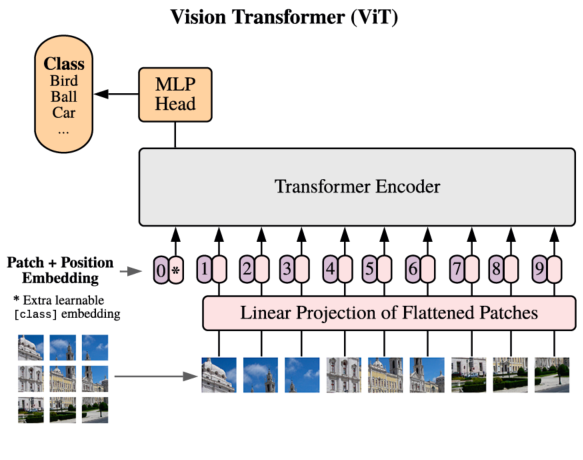
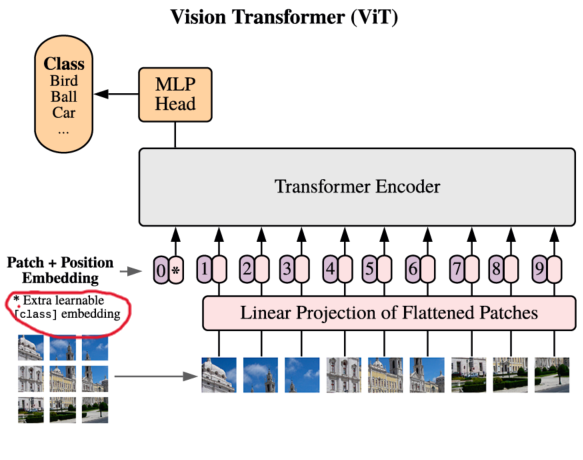
1

diff --git a/读论文中提到的概念大略/VIT/学习.md b/读论文中提到的概念大略/VIT/学习.md
@@ -21,8 +21,66 @@
 ## 具体方法解析
 ![alt text](image-1.png)
 1. 首先将输入图片分成一个个16×16的patch。
-2. 将一个个patch放到线形投射层
+2. 将一个个patch放到线形投射层（其实就是一个全连接层）
+3. 将2中所得，拼接额外cls token，并加入位置编码信息
+4. 进入TransFormer Encoder
 
-举例来说明：
-如果是输入大小为224×224的图片，那么分为16×16的patch可以分出来（224÷16）<sup>2</sup>=196个，每个patch 的维度就成了16×16×3=768。
-原来的
+流程图：
+![alt text](image-2.png)
+
+举例来说明：（这里省略了残差连接的内容，见图中）
+·如果是输入大小为224×224的图片，那么分为16×16的patch可以分出来（224÷16）<sup>2</sup>=196个，每个patch 的维度就成了16×16×3=768。
+·原来的输入就从224×224×3变成了一个196×768的维度。接下来进入线性投射层（论文中给出的维度是768（输入决定）×768（隐藏层神经元个数））
+·经过线性投射层得到的结果维度为196×768，也就是196个token，一个token的长度是768
+·不过呢，还需要一个可学习的cls token（图中红色圈圈中的内容，应该是用于分类的），其形状为1×768
+·将cls token和之前得到的进行拼接，得到形状为197×768的要进入TransFormer的输入。
+·在进入TransFormer之前我们还需要给这个输入加上一个位置编码信息
+&emsp;对于位置编码嵌入的实现比较特殊且粗暴，在这里简单说一下
+&emsp;创建一个等于行数等于patch数的表格，如本例中的196（这里老师没有细讲，不过感觉从操作层面上讲，可能197行会方便一点）。每行长度为768，也就是一个token的长度。这样得到这个196/197×768的矩阵
+&emsp;将其直接加到我们之前得到的要进入TransFormer的输入（所得的最终输入形状仍然为197×768）上即可完成位置编码。
+&emsp;注意，负责位置编码的这个矩阵是可以进行学习的~~~
+·之后进入TransFormer block中，首先是做个LayerNorm
+·接下来是做一个多头自注意力机制，得到QKV
+&emsp;如果是单头则QKV皆为197×768，多头默认是12个头，则QKV皆为197×64（共12组）
+&emsp;经过多头自注意力的结果经过拼接所得的结果仍然为197×768
+·再过一层layernorm，再过一个MLP
+&emsp;MLP中间的隐藏层的神经元是输入的4倍，也就是768×4=3072个，不过最后还是输出还是197×768
+·经过L个TransFormer block（也就是一个Transformer Encoder后），得到的结果过一个分类头（MLP），得到最终的输出。（应该也可以接其他的头，不过现在还没整明白）
+
+### 注意
+**对于其中cls token是最终作为整个模型提取的图片的特征输出的。**
+可以这样理解，cls token经过很多层的transformer模块后，融合了其他token的信息。
+比如说对于接一个MLP图像分类层，只要这个cls token的信息过去接就可以了。
+*好像在NLP中也有一样的应用（准确来说VIT加这个就是借鉴了），一句话有很多词，但在一句话前面加一个cls token后，就可以吸取整个句子中的信息，用其代表整个句子。*
+
+但是这个cls token并非绝对必要，论文中指出其实对于vit也可以不用cls token，而像CNN里做的那样，做一个Globally average-pooling，仍然可以提取图像特征。
+
+**对于视觉编码**
+Vit使用的是1d的位置编码，就是把图像块patch之间有顺序信息就行。
+文中还介绍了2d的位置编码和相对位置编码，好在，最终消融实验的结果表示，都一样，反正TransFormer对这个没那么敏感，你这个位置编码无论哪一种只要有就行。
+
+## 其他
+### Data-efficient（数据高效）
+老师提到，Vit全局建模能力比较好，相比之下，CNN比较Data-efficient。这个数据高效指的是：能够在较少数据量上实现高性能。
+好家伙，第一次接触到这个概念，没想到CNN居然是称得上data efficient的，可见TransFormer相关真是很贵啊-…-。
+
+集合CNN和Vit的长处，可以用CNN来进行分patch的操作，这样相比之下要比直接把图片硬性分出来要看上去科学很多~~~~
+
+### 对于大的图像呢？
+对于更大尺寸的图片，微调这不好办啊；其一，保持相同的patch大小的同时，图片尺寸增大，显然会让序列长度变大，虽说TransFormer理论上可以搞多长的序列都行，但对硬件的需求可能就买不起了。第二，序列长度增大，这个之前预训练好的位置编码矩阵就不顶用了啊。
+不过文中提到可以使用2d的插值来解决问题2；（听不懂）
+老师说，文中的操作就是用torch官方自带的interpolate函数来进行插值。*（插值是一种估计函数在不同点值的技术）*不过，显然插值是不可能想插多长插多长，所以说，这个并不能从根本上解决问题。
+
+### 实验结果摘要
+首先就是Vit很nb，然后，最令人印象深刻的一点是Vit在中小型数据集上的效果是比不上ResNet也就是卷积的方法的；不过对于较大的数据集，Vit的效果是可以超越ResNet的~~
+但是要不说人家有钱呢，他说的小型数据集，是ImageNet，（真的是让人想骂人，不过这个也侧面说明，也许我的判断没有错，未来如果通讯技术起来了，AI这东西，还是搞垄断的方便）中型数据集是ImageNet-21k，大型数据集是JFT-300M（nnd，三亿图片就离谱）
+
+很离谱的一点是，在同等计算复杂度的情况下（文中只给了10<sup>2</sup>前一点到10<sup>3</sup>后一点的部分），ResNet的效果是比不过Vit的。
+
+**自监督学习**
+这里提到了一个如何来自监督训练的方法，就是把这分割好的patch，给它搞上mask。就是说把这些patch随机的抹掉几个，然后通过网络把抹掉的patch生成出来。
+然后弹幕里都在刷inpainting。（好像是深度学习中用于修复图像的）
+
+Vit的原始论文只说了针对图像分类的任务，对于目标检测与图像分割的任务没有多说。（如果目标检测任务也可以来个检测头之类的东西就好了）
+
+
